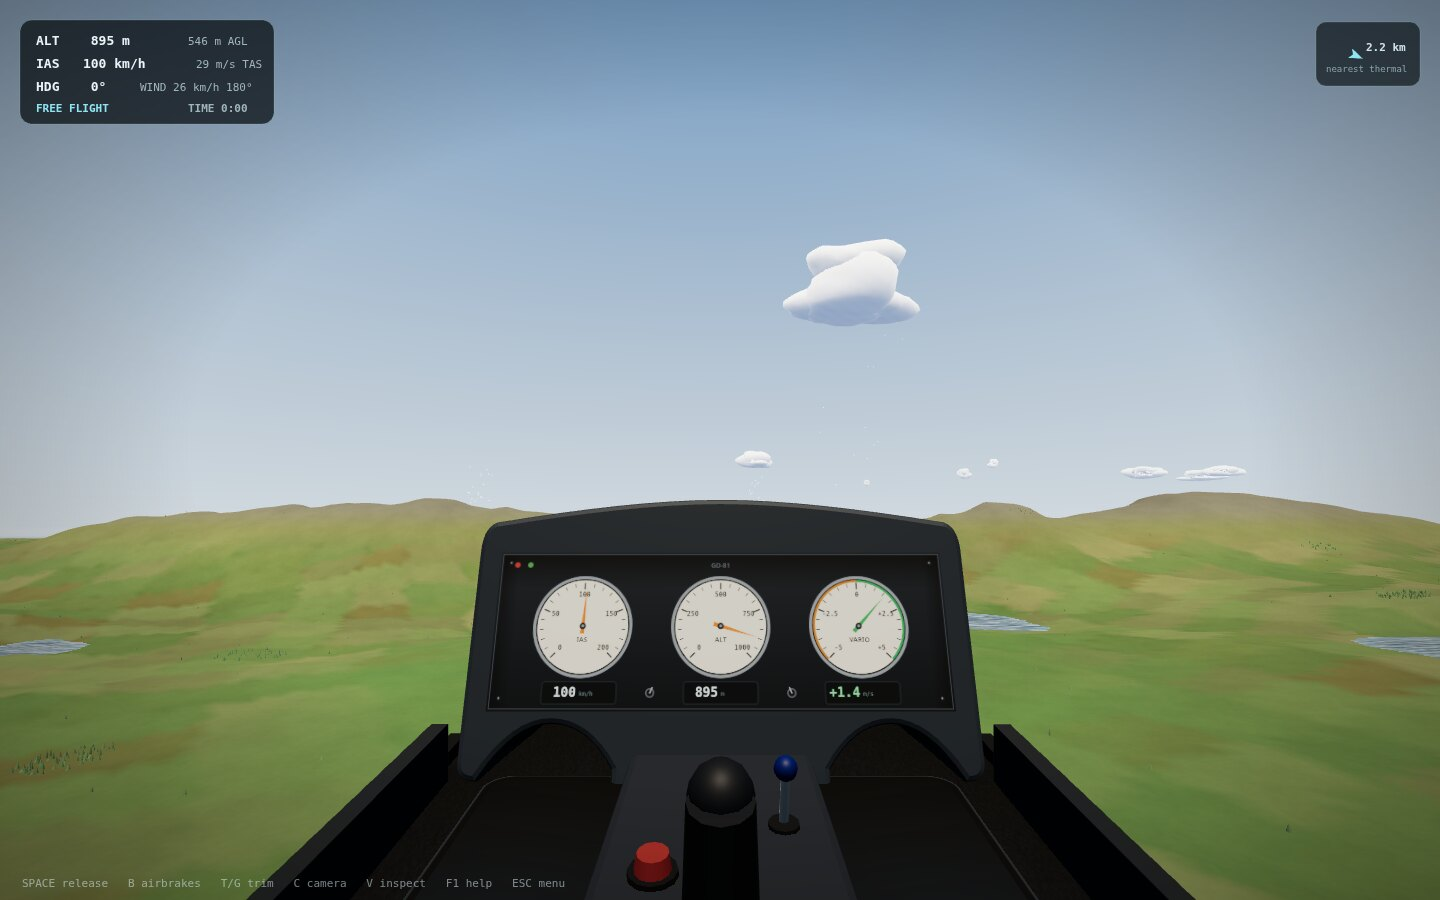
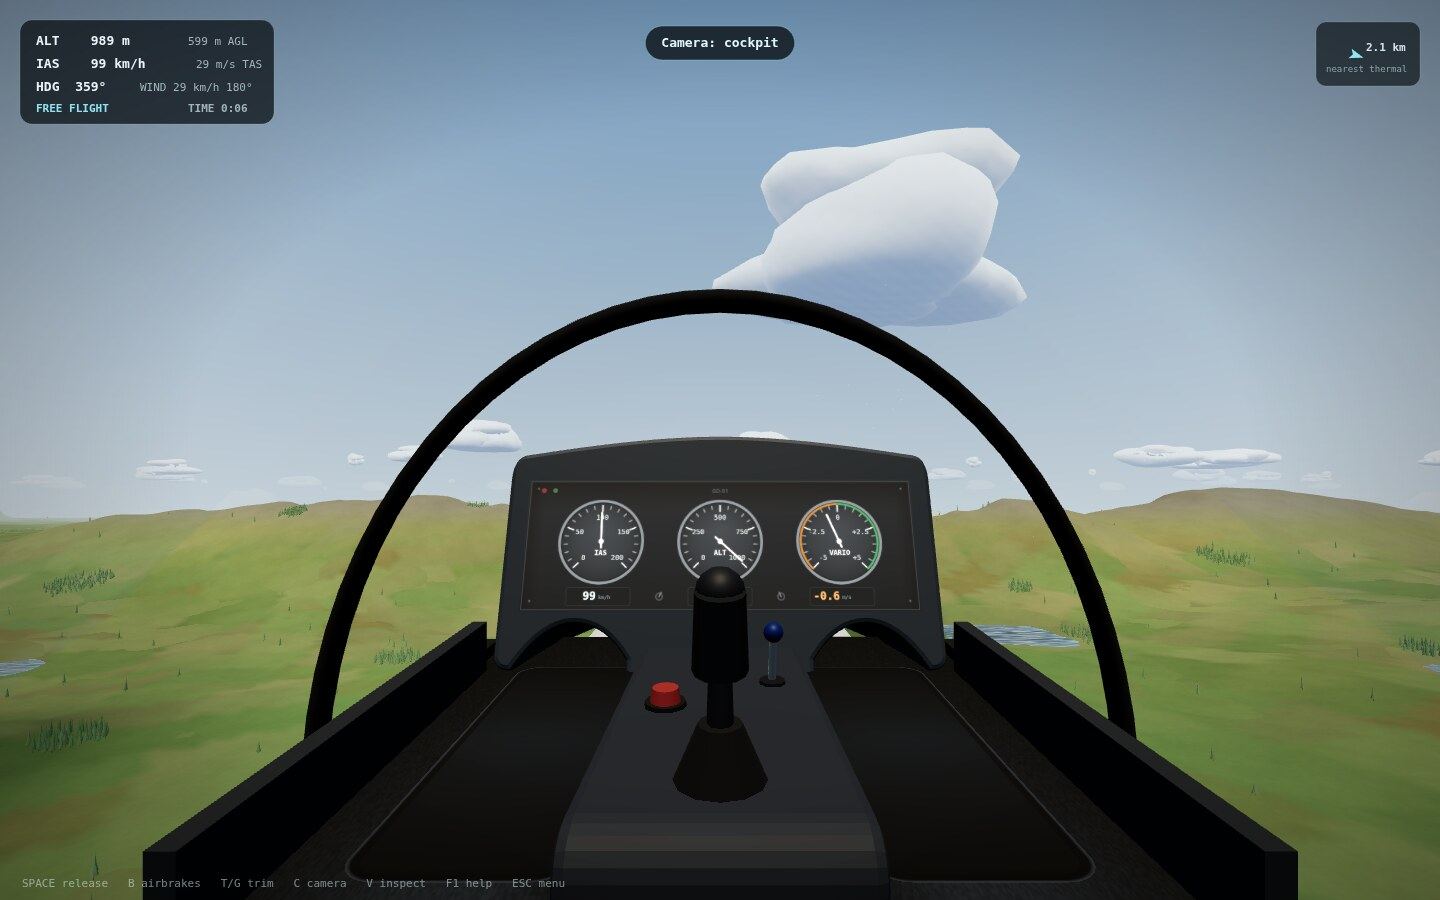
Show a reflective canopy in cockpit view
The interior glass was simply hidden because the cockpit eye sat right
at the top of the dome. Add a separate inner canopy shell with a Fresnel
shader: almost clear through the middle, pale blue reflections toward
the edges and a sun glint aligned with the scene light. Render it as a
back face with depth writes off so the dash still occludes it cleanly.

Add a front canopy bow to the frame, lower the cockpit eye into the
canopy, and swap the outer glass for the inner shell when entering
cockpit view. The exterior glass and frame remain unchanged for chase
and orbit views. Refresh the cockpit screenshot in the README.

diff --git a/src/render/gliderMesh.ts b/src/render/gliderMesh.ts
@@ -1,4 +1,5 @@
 import {
+  BackSide,
   BoxGeometry,
   BufferAttribute,
   BufferGeometry,
@@ -13,6 +14,7 @@ import {
   MeshBasicMaterial,
   MeshStandardMaterial,
   PlaneGeometry,
+  ShaderMaterial,
   Shape,
   SphereGeometry,
   SRGBColorSpace,
@@ -45,6 +47,50 @@ const WING_DIHEDRAL_SLOPE = (WING_TIP_Y - WING_ROOT_Y) / WING_SPAN;
 export const GLIDER_MODEL_DROP = 0.25;
 
 const clamp01 = (value: number): number => Math.max(0, Math.min(1, value));
+
+/**
+ * Cockpit canopy glass. The camera sits inside the shell, so this is drawn as
+ * a back face with almost no tint head-on and a soft Fresnel reflection at the
+ * edges and over the top. A small sun glint gives it a surface without fogging
+ * the view.
+ */
+const COCKPIT_GLASS_VERTEX = /* glsl */ `
+  varying vec3 vViewPosition;
+  varying vec3 vViewNormal;
+
+  void main() {
+    vec4 viewPosition = modelViewMatrix * vec4(position, 1.0);
+    vViewPosition = viewPosition.xyz;
+    vViewNormal = normalize(normalMatrix * normal);
+    gl_Position = projectionMatrix * viewPosition;
+  }
+`;
+
+const COCKPIT_GLASS_FRAGMENT = /* glsl */ `
+  uniform vec3 uSunDirection;
+  uniform vec3 uTint;
+  uniform vec3 uSunColor;
+
+  varying vec3 vViewPosition;
+  varying vec3 vViewNormal;
+
+  void main() {
+    vec3 viewDir = normalize(-vViewPosition);
+    vec3 normal = normalize(vViewNormal);
+    if (dot(normal, viewDir) < 0.0) normal = -normal;
+
+    float facing = clamp(dot(normal, viewDir), 0.0, 1.0);
+    float fresnel = pow(1.0 - facing, 2.4);
+
+    vec3 sunView = normalize((viewMatrix * vec4(uSunDirection, 0.0)).xyz);
+    vec3 reflection = reflect(-viewDir, normal);
+    float glint = pow(max(dot(reflection, sunView), 0.0), 64.0);
+
+    vec3 color = uTint + uSunColor * glint * 0.9;
+    float alpha = 0.025 + fresnel * 0.26 + glint * 0.3;
+    gl_FragColor = vec4(color, clamp(alpha, 0.0, 0.55));
+  }
+`;
 
 /** Height of the wing's reference surface at a spanwise station. */
 function wingSurfaceY(x: number): number {
@@ -978,6 +1024,8 @@ export class GliderMesh {
   private readonly elevator = new Group();
   private readonly rudder = new Group();
   private readonly canopy = new Group();
+  private readonly cockpitGlass = new Mesh();
+  private cockpitGlassMaterial: ShaderMaterial | null = null;
   private readonly flexParts: Array<{
     object: Group;
     x: number;
@@ -1294,6 +1342,16 @@ export class GliderMesh {
     sill.scale.set(0.64, 1.55, 1);
     canopyFrame.add(sill);
 
+    // Front canopy bow. It follows the dome cross-section at that station and
+    // gives the pilot a visible frame over the glass in cockpit view.
+    const bow = new Mesh(
+      new TorusGeometry(0.5, 0.012, 6, 36, Math.PI),
+      coamingMaterial,
+    );
+    bow.scale.set(0.63, 0.77, 1);
+    bow.position.set(0, 0, -0.08);
+    canopyFrame.add(bow);
+
     // Side rails run from behind the seat forward to meet the dash.
     for (const side of [1, -1]) {
       const rail = new Mesh(new BoxGeometry(0.016, 0.016, 1.66), coamingMaterial);
@@ -1303,6 +1361,39 @@ export class GliderMesh {
 
     this.body.add(canopyFrame);
     this.body.add(this.canopy);
+
+    // Inner glass for the cockpit camera. BackSide means we see the inside of
+    // the dome; the shader keeps the centre clear and only adds reflections
+    // where the surface turns away from the eye.
+    const cockpitGlassMaterial = new ShaderMaterial({
+      uniforms: {
+        uSunDirection: { value: new Vector3(0, 0.8, 0.6) },
+        uTint: { value: new Color(0x93b9cb) },
+        uSunColor: { value: new Color(0xfff1d5) },
+      },
+      vertexShader: COCKPIT_GLASS_VERTEX,
+      fragmentShader: COCKPIT_GLASS_FRAGMENT,
+      transparent: true,
+      side: BackSide,
+      depthWrite: false,
+      depthTest: true,
+    });
+    this.cockpitGlassMaterial = cockpitGlassMaterial;
+    this.cockpitGlass.geometry = new SphereGeometry(
+      0.5,
+      28,
+      16,
+      0,
+      Math.PI * 2,
+      0,
+      Math.PI / 2,
+    );
+    this.cockpitGlass.material = cockpitGlassMaterial;
+    this.cockpitGlass.scale.set(0.64, 0.78, 1.55);
+    this.cockpitGlass.position.set(0, 0.33, -0.92);
+    this.cockpitGlass.renderOrder = 4;
+    this.cockpitGlass.visible = false;
+    this.body.add(this.cockpitGlass);
 
     // Wing roots: a soft fairing hides the wing/fuselage intersection.
     for (const side of [1, -1]) {
@@ -1564,6 +1655,7 @@ export class GliderMesh {
     frame.add(this.body, this.wings, this.tail);
     this.group.add(frame);
     this.group.traverse((object) => {
+      if (object === this.cockpitGlass) return;
       if (object instanceof Mesh) {
         object.castShadow = true;
         object.receiveShadow = true;
@@ -1607,9 +1699,17 @@ export class GliderMesh {
   }
 
   setCockpitView(active: boolean): void {
-    // From the pilot's seat the canopy would sit in front of the camera; the
-    // cockpit tub and panel stay visible for a sense of sitting in the glider.
+    // Swap the outer glass for the interior shell so the pilot can see the
+    // canopy without the camera clipping through a tinted surface.
     this.cockpitView = active;
     this.canopy.visible = !active;
+    this.cockpitGlass.visible = active;
+  }
+
+  /** Keep the cockpit glass glint aligned with the scene sun. */
+  setSunDirection(direction: Vector3): void {
+    if (!this.cockpitGlassMaterial) return;
+    const uniform = this.cockpitGlassMaterial.uniforms.uSunDirection;
+    (uniform.value as Vector3).copy(direction);
   }
 }

diff --git a/src/render/renderer.ts b/src/render/renderer.ts
@@ -207,6 +207,7 @@ export class WorldRenderer {
       Math.sin(elevation),
       -Math.cos(azimuth) * Math.cos(elevation),
     );
+    this.glider.setSunDirection(this.sunDirection);
 
     const daylight = clamp(Math.sin(elevation), 0, 1);
     this.sun.color.copy(new Color(0xfff1d5)).lerp(new Color(0xff9d59), 1 - daylight);

diff --git a/src/config.ts b/src/config.ts
@@ -338,7 +338,7 @@ export const FREE_CAMERA = {
  * to sit taller in the seat; `eyeForward` moves the eye fore/aft.
  */
 export const COCKPIT_VIEW = {
-  eyeHeight: 0.75,
+  eyeHeight: 0.6,
   eyeForward: -0.52,
 } as const;
 

diff --git a/README.md b/README.md
@@ -201,9 +201,11 @@ On the menu, **Enter** starts the selected flight.
 
 ![Cockpit view](docs/cockpit.jpg)
 
-`C` cycles chase → cockpit → orbit. From the pilot's seat the canopy glass is
-hidden, but the side rails, centre stick and centre console stay in view, with
-the nose below the panel giving the horizon reference; mouse-drag looks around.
+`C` cycles chase → cockpit → orbit. From the pilot's seat the canopy is a thin
+reflective inner shell with a front bow and glinting edges, so you are aware of
+the glass without it fogging the view. The side rails, centre stick and centre
+console stay in sight, with the nose below the panel giving the horizon
+reference; mouse-drag looks around.
 The dash is a moulded arch that sweeps down into deep knee cut-outs either side
 of the centre tunnel, and the flocked deck carries two dark footwells with baked
 contact shadows, so the cockpit reads as a shaded tub rather than a flat plate.
